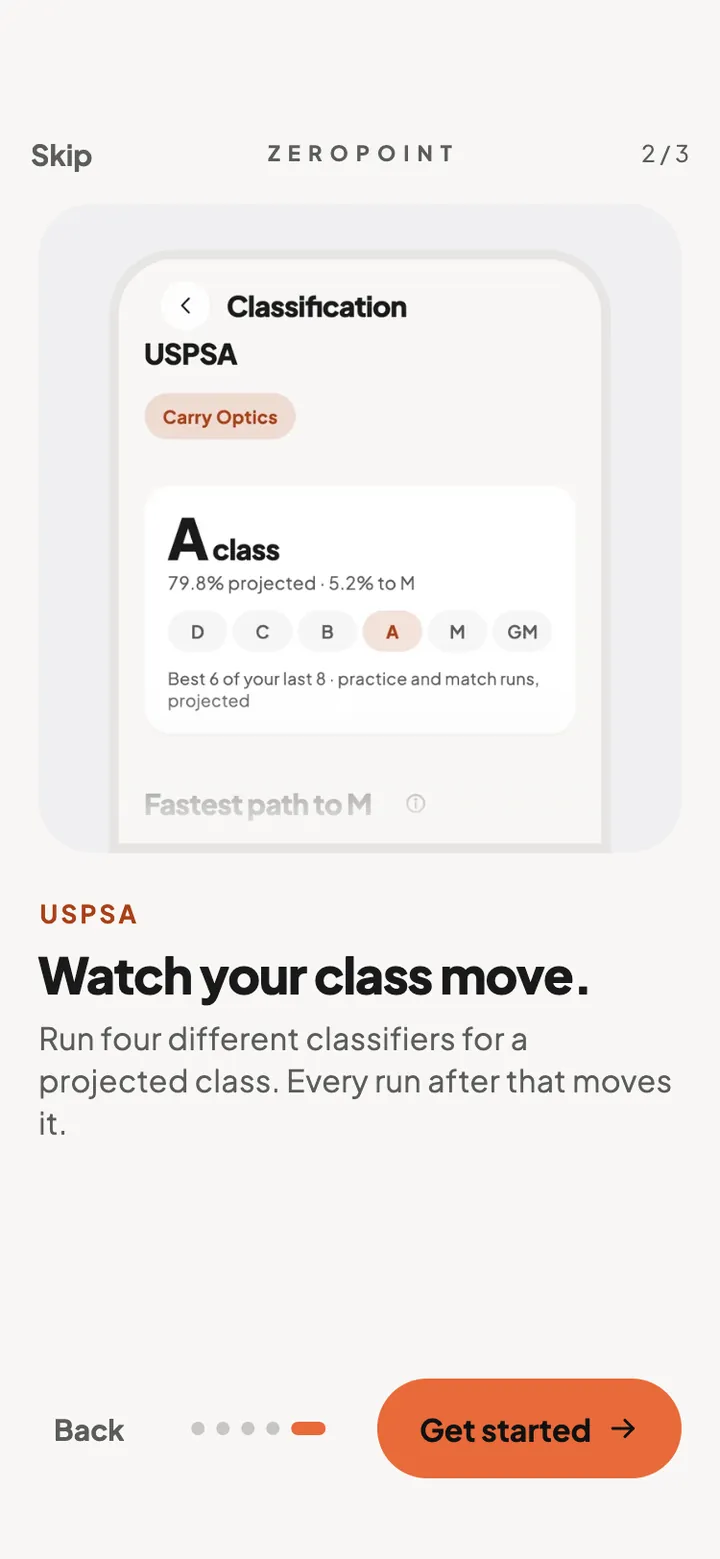
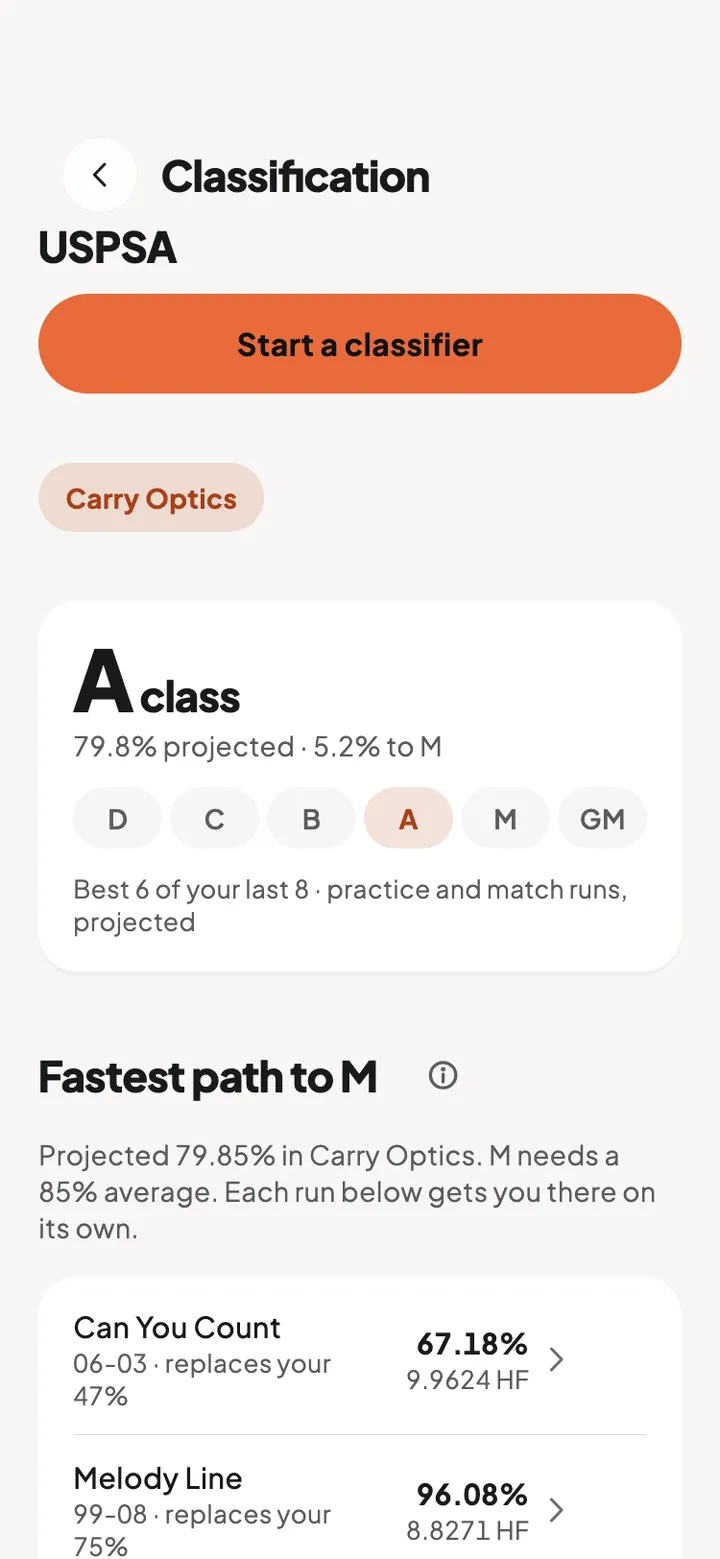
USPSA page round 2: proof strip, results sheet comparison, FAQ
- Proof strip under the hero with the demo match's own numbers
  (14.7 s lost to time, 75 pts lost to penalties, 17th of 30).
- Results sheet vs ZeroPoint, two columns, no brand on the sheet side.
- Classification screen is now the real Classification page render
  (A class, 5.2% to M, fastest path to M) instead of the intro card.
- Tighter benefit headlines and outcome bullets; hero lede answers why.
- Five-question FAQ on the shared FaqList, with live Pro prices from
  site.ts and the matchesLive check Home uses.
- New sections reuse the site's Reveal entrance motion.

diff --git a/content/uspsa.tsx b/content/uspsa.tsx
@@ -1,0 +1,152 @@
+import type { Step } from "@/components/sections/steps";
+import type { Faq } from "./faq";
+import type { Feature } from "./features";
+import { money, pricing } from "./site";
+
+// The /uspsa landing page, a sibling of /idpa: a page a USPSA club or
+// uspsa.org could link to. Claims were checked against the app code on
+// 2026-11-03 (rangeai master: the competition feature and its teaching
+// layer). Say "for USPSA shooters", never "official" or anything that reads
+// as an endorsement. PractiScore is only where the shooter shares results
+// from; we never say we pull from it. Every number on the page comes from
+// the demo match in the app's own screen renders (Area 6 Championship).
+
+export const uspsa = {
+  placement: "uspsa",
+  title: "USPSA match log and classification tracker",
+  description:
+    "ZeroPoint for USPSA shooters: share your results from PractiScore and see where you lost points, stage by stage. Track your projected class from your classifiers and your place between stages on match day. Free on iPhone and Android.",
+  eyebrow: "For USPSA shooters",
+  h1: "See exactly where you lost points.",
+  lede: "Your match % tells you how you did. ZeroPoint tells you why, so you know what to practise before the next one.",
+  closing: "Bring your next match in.",
+};
+
+/** The proof strip under the hero: one real match from the app's demo data. */
+export const uspsaProof = {
+  caption: "What one match looked like",
+  detail: "Area 6 Championship, Carry Optics, from the match page in the app.",
+  stats: [
+    { value: "14.7 s", label: "lost to time" },
+    { value: "75 pts", label: "lost to penalties" },
+    { value: "17th of 30", label: "in division" },
+  ],
+};
+
+/** Results sheet vs ZeroPoint: what the sheet gives, what ZeroPoint adds. */
+export const uspsaCompare = {
+  sheet: ["Your match %", "Your place, in division and overall", "Hit factor and points for each stage"],
+  zeropoint: [
+    "Seconds lost to time against points lost to hits and penalties",
+    "The stage that cost you the most",
+    "Whether speed or accuracy cost you more",
+    "Head to head with anyone in your division",
+    "Your projected class from your classifiers",
+    "Your place between stages on match day",
+  ],
+};
+
+export const uspsaFeatures: Feature[] = [
+  {
+    id: "import",
+    eyebrow: "From PractiScore",
+    title: "One share and the whole match is in.",
+    body: "Open your results in PractiScore, tap Share and choose ZeroPoint. Scores corrected later? Share again and see what changed.",
+    points: [
+      { text: "Every stage and every shooter, no typing" },
+      { text: "Works with the .psc file or the results page" },
+      { text: "Corrections show up as changes, not a new match" },
+    ],
+    screen: "uspsaImport",
+    prop: "receipts",
+  },
+  {
+    id: "analysis",
+    eyebrow: "Beyond the results sheet",
+    title: "Know what to practise next.",
+    body: "Your match page splits your score into time and points, then shows which stage hurt the most and whether speed or accuracy cost you more.",
+    points: [
+      { text: "“14.7 s lost to time, 75 pts lost to penalties”" },
+      { text: "The stage that cost you the most, called out" },
+      { text: "Whether your loss was on the clock or in your hits" },
+    ],
+    screen: "uspsaMatch",
+    prop: "targetPrints",
+  },
+  {
+    id: "compare",
+    eyebrow: "Full results",
+    title: "Measure yourself against anyone.",
+    body: "Your row stays pinned at the top of the full results. Tap any shooter in your division and compare every stage side by side.",
+    points: [
+      { text: "Find yourself at once, however big the field" },
+      { text: "See which stages the shooter above you won" },
+      { text: "Switch between your division and overall" },
+    ],
+    screen: "uspsaResults",
+    prop: "casings",
+  },
+  {
+    id: "class",
+    eyebrow: "Classification",
+    title: "See your next class coming.",
+    body: "Log your classifiers and ZeroPoint projects your class in each division. It shows how far you are from the next one and which runs would get you there.",
+    points: [
+      { text: "Your projected class, from D to GM" },
+      { text: "“5.2% to M”, and the fastest path there" },
+      { text: "A moment to mark it when a run moves you up" },
+    ],
+    screen: "uspsaClass",
+    prop: "target",
+  },
+  {
+    id: "live",
+    eyebrow: "Match day",
+    title: "Know where you stand mid-match.",
+    body: "When results are posted between stages, update them and see your place so far, and whether you moved up or down.",
+    points: [
+      { text: "Your place so far, with how many stages are in" },
+      { text: "Up or down since the last update" },
+      { text: "A note, photo or video on each stage" },
+    ],
+    screen: "uspsaLive",
+    prop: "ammoBoxes",
+  },
+];
+
+export const uspsaSteps: Step[] = [
+  { title: "Plan", body: "Add the match with your division. ZeroPoint lines up prep drills and a packing checklist." },
+  { title: "Log", body: "Score each stage as you shoot it, with a note on what happened. Check your place between stages." },
+  { title: "Import", body: "When results are posted, share them from PractiScore and see where you lost points." },
+];
+
+/** `matchesLive` comes from lib/release.ts (the live App Store version). */
+export function uspsaFaq(matchesLive: boolean, lifetime = false): Faq[] {
+  return [
+    {
+      q: "Does it work with PractiScore results?",
+      a: `${matchesLive ? "Yes." : "Yes, in the next update."} Open your match results in PractiScore, tap Share and choose ZeroPoint. You can also add a .psc match file or a saved results page.`,
+    },
+    {
+      q: "Do I need to type in my scores?",
+      a: "No. Sharing your results brings in every stage and every shooter. If you want to track your place during a match, you can log each stage as you shoot it, then import the posted results after.",
+    },
+    {
+      q: "Is it free?",
+      a: `Yes. Importing matches, your match page and head to head are free. Pro (${money(pricing.monthly)} a month or ${money(pricing.yearly)} a year in the US${lifetime ? `, or ${money(pricing.lifetime)} once for Founders Lifetime` : ""}) adds the deeper analysis, like the coach’s read, what-ifs and your stages against the stage winner, plus cloud backup and no ads.`,
+    },
+    {
+      q: "How does classification work?",
+      a: "Log your classifier runs, from practice or from a match. After four different classifiers, ZeroPoint projects your class in that division and shows how far you are from the next one. It’s a projection from your own runs, so your posted class is still the one that counts.",
+    },
+    {
+      q: "Is my data private?",
+      a: (
+        <>
+          Yes. Your matches are yours. Your log lives on your phone, and your data is never sold. Read the{" "}
+          <a href="/privacy">privacy policy</a>.
+        </>
+      ),
+    },
+  ];
+}

diff --git a/app/uspsa/page.tsx b/app/uspsa/page.tsx
@@ -3,11 +3,15 @@ import { SiteFooter } from "@/components/layout/site-footer";
 import { SiteHeader } from "@/components/layout/site-header";
 import { BenchArt } from "@/components/sections/bench-art";
 import { ClosingCta } from "@/components/sections/closing-cta";
+import { FaqList } from "@/components/sections/faq-list";
 import { FeatureList } from "@/components/sections/feature-list";
 import { Hero } from "@/components/sections/hero";
 import { Steps } from "@/components/sections/steps";
 import { StickyStoreBar } from "@/components/sections/sticky-store-bar";
-import { uspsa, uspsaFeatures, uspsaSteps } from "@/content/uspsa";
+import { ProofStrip } from "@/components/sections/uspsa/proof-strip";
+import { SheetCompare } from "@/components/sections/uspsa/sheet-compare";
+import { uspsa, uspsaFaq, uspsaFeatures, uspsaSteps } from "@/content/uspsa";
+import { foundersLive, matchesLive } from "@/lib/release";
 
 export const metadata: Metadata = {
   title: uspsa.title,
@@ -16,9 +20,15 @@ export const metadata: Metadata = {
   openGraph: { title: `ZeroPoint for USPSA shooters: ${uspsa.h1}`, description: uspsa.description, url: "/uspsa" },
 };
 
-// The page a USPSA club or uspsa.org could link to: the pitch, five real
-// USPSA screens, how it works, and the store buttons. Sibling of /idpa.
-export default function UspsaPage() {
+// Re-check the App Store hourly, as Home does, so the FAQ and the Pro
+// prices follow the live release.
+export const revalidate = 3600;
+
+// The page a USPSA club or uspsa.org could link to: the pitch, one real match
+// in numbers, the results sheet vs ZeroPoint, five real USPSA screens, how it
+// works, a short FAQ and the store buttons. Sibling of /idpa.
+export default async function UspsaPage() {
+  const [live, founders] = await Promise.all([matchesLive(), foundersLive()]);
   return (
     <>
       <SiteHeader />
@@ -31,8 +41,11 @@ export default function UspsaPage() {
           storesId="uspsa-stores"
           art={<BenchArt back="target" front="casings" screens={["uspsaMatch", "uspsaLive", "uspsaCompete"]} />}
         />
+        <ProofStrip />
+        <SheetCompare />
         <FeatureList items={uspsaFeatures} />
         <Steps title="How it works." items={uspsaSteps} />
+        <FaqList items={uspsaFaq(live, founders)} title="Good to know." />
         <ClosingCta
           title={uspsa.closing}
           lede={<>Free to start on iPhone and Android. <a href="/">See everything ZeroPoint does</a>.</>}

diff --git a/content/images.ts b/content/images.ts
@@ -33,7 +33,7 @@ export const screens = {
   uspsaMatch: { src: uspsaMatch, alt: "A USPSA match page for Area 6 Championship: 82.0% in Carry Optics, 17th of 30, with Biggest costs of 14.7 s lost to time and 75 points lost to penalties" },
   uspsaResults: { src: uspsaResults, alt: "Full match results, overall, with your row pinned at the top: 23rd, C class Carry Optics, 81.95% and 811.8 points, above the match leaders" },
   uspsaImport: { src: uspsaImport, alt: "Bring in your results from PractiScore in three steps: open the results, tap Share, choose ZeroPoint" },
-  uspsaClass: { src: uspsaClass, alt: "USPSA Classification for Carry Optics: A class, 79.8% projected and 5.2% to M, on a D to GM scale" },
+  uspsaClass: { src: uspsaClass, alt: "USPSA Classification in Carry Optics: A class, 79.8% projected and 5.2% to M, with the fastest path to M listing the classifier runs that would get you there" },
   uspsaLive: { src: uspsaLive, alt: "A live USPSA match after stage 3 of 8: 17th of 30 so far, down 2 places, with 6 of 8 stages in and an Update results button" },
   uspsaCompete: { src: uspsaCompete, alt: "The Compete tab: Area 6 Championship in 3 days, a packing checklist, and a Start a classifier button" },
   home: { src: home, alt: "ZeroPoint home: last session, this week's range days and a training card" },

diff --git a/components/sections/uspsa/sheet-compare.module.css b/components/sections/uspsa/sheet-compare.module.css
@@ -1,0 +1,21 @@
+.section { padding: calc(var(--section-y) * 0.6) 0; }
+.card {
+  max-width: 1080px;
+  padding: clamp(24px, 3.6vw, 60px);
+  border-radius: var(--radius-lg);
+  background: var(--surface);
+  box-shadow: var(--shadow-card);
+}
+.card h2 { max-width: 22ch; font-size: clamp(28px, 4vw, 52px); }
+.cols { display: grid; gap: 16px; margin-top: clamp(24px, 2.4vw, 36px); }
+.col { min-width: 0; padding: clamp(18px, 2vw, 28px); border-radius: var(--radius); border: 1px solid var(--line); }
+.ours { border-color: transparent; background: var(--ink); color: var(--on-dark); }
+.col h3 { font-size: 13px; font-weight: 800; letter-spacing: 0.14em; text-transform: uppercase; color: var(--muted); }
+.ours h3 { color: var(--orange-on-dark); }
+.col ul { display: grid; gap: 12px; margin: 16px 0 0; padding: 0; list-style: none; }
+.col li { display: flex; gap: 10px; align-items: baseline; font-size: clamp(16px, 0.4vw + 12px, 19px); line-height: 1.4; }
+.sheet li::before { content: ""; flex: 0 0 8px; height: 8px; border-radius: 50%; background: var(--line); translate: 0 -2px; }
+.adds li::before { content: "✓"; flex: 0 0 auto; color: var(--orange-on-dark); font-weight: 800; }
+@media (min-width: 820px) {
+  .cols { grid-template-columns: 1fr 1.4fr; align-items: start; }
+}

diff --git a/components/sections/uspsa/sheet-compare.tsx b/components/sections/uspsa/sheet-compare.tsx
@@ -1,0 +1,29 @@
+import { Reveal } from "@/components/motion/reveal";
+import { uspsaCompare } from "@/content/uspsa";
+import styles from "./sheet-compare.module.css";
+
+/** Results sheet vs ZeroPoint: what you already get, and what ZeroPoint adds. */
+export function SheetCompare() {
+  return (
+    <section className={styles.section} aria-labelledby="sheet-title">
+      <div className={`wrap ${styles.card}`}>
+        <p className="eyebrow">Results sheet vs ZeroPoint</p>
+        <h2 id="sheet-title">The sheet tells you how you did. ZeroPoint tells you why.</h2>
+        <div className={styles.cols}>
+          <Reveal className={styles.col}>
+            <h3>The results sheet</h3>
+            <ul className={styles.sheet}>
+              {uspsaCompare.sheet.map((t) => <li key={t}>{t}</li>)}
+            </ul>
+          </Reveal>
+          <Reveal className={`${styles.col} ${styles.ours}`} delay={120}>
+            <h3>What ZeroPoint adds</h3>
+            <ul className={styles.adds}>
+              {uspsaCompare.zeropoint.map((t) => <li key={t}>{t}</li>)}
+            </ul>
+          </Reveal>
+        </div>
+      </div>
+    </section>
+  );
+}

diff --git a/components/sections/uspsa/proof-strip.module.css b/components/sections/uspsa/proof-strip.module.css
@@ -1,0 +1,22 @@
+.band { padding: clamp(28px, 4vw, 56px) 0; border-block: 1px solid var(--line); }
+.caption { margin: 0; }
+.grid { display: grid; grid-template-columns: repeat(3, minmax(0, 1fr)); margin: 14px 0 0; }
+.stat { display: flex; flex-direction: column-reverse; justify-content: flex-end; min-width: 0; padding-right: 12px; }
+.stat + .stat { padding-left: clamp(12px, 2.4vw, 32px); border-left: 1px solid var(--line); }
+.stat dd {
+  margin: 0;
+  font-size: clamp(24px, 4.4vw, 64px);
+  font-weight: 800;
+  letter-spacing: -0.035em;
+  line-height: 1.02;
+  overflow-wrap: anywhere;
+}
+.stat dt { margin-top: 6px; color: var(--muted); font-size: var(--fs-small); }
+.detail { margin-top: 16px; color: var(--muted); font-size: var(--fs-small); }
+@media (max-width: 420px) {
+  .grid { grid-template-columns: 1fr; gap: 0; }
+  .stat { flex-direction: row-reverse; align-items: baseline; justify-content: space-between; gap: 12px; padding: 10px 0; }
+  .stat + .stat { padding-left: 0; border-left: 0; border-top: 1px solid var(--line); }
+  .stat dd { font-size: 32px; }
+  .stat dt { margin-top: 0; text-align: right; font-size: var(--fs-body); }
+}

diff --git a/components/sections/uspsa/proof-strip.tsx b/components/sections/uspsa/proof-strip.tsx
@@ -1,0 +1,25 @@
+import { Reveal } from "@/components/motion/reveal";
+import { uspsaProof } from "@/content/uspsa";
+import styles from "./proof-strip.module.css";
+
+/** Right under the hero: three real numbers from one match in the app. */
+export function ProofStrip() {
+  return (
+    <section className={styles.band} aria-labelledby="proof-title">
+      <div className="wrap">
+        <Reveal>
+          <p className={`eyebrow ${styles.caption}`} id="proof-title">{uspsaProof.caption}</p>
+          <dl className={styles.grid}>
+            {uspsaProof.stats.map((s) => (
+              <div key={s.label} className={styles.stat}>
+                <dt>{s.label}</dt>
+                <dd>{s.value}</dd>
+              </div>
+            ))}
+          </dl>
+          <p className={styles.detail}>{uspsaProof.detail}</p>
+        </Reveal>
+      </div>
+    </section>
+  );
+}
